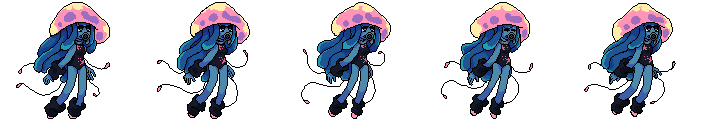
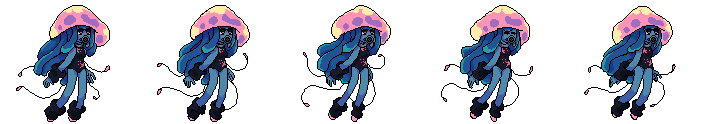
Sprite Changes and Interacting animations

diff --git a/Components/Indigo.cpp b/Components/Indigo.cpp
@@ -2,10 +2,11 @@
 #include "../Sprite.h"
 #include "../InputManager.h"
 
-Indigo::Indigo(GameObject& associated): Component(associated){
+Indigo::Indigo(GameObject& associated): Component(associated), interactingTimer(){
     player = this;
     associated.AddComponent(dynamic_cast<Component*>(new Sprite(associated, "Assets/Images/IndigoStandingSheet.png", 8, 1.5/8.0)));
     lastSpeed = 0;
+    interacting = false;
 
 }
 
@@ -18,33 +19,53 @@ void Indigo::Start(){
 }
 
 void Indigo::Update(float dt){
-    int directionalSpeed = 250 * dt * (InputManager::GetInstance().IsKeyDown(D_KEY) - InputManager::GetInstance().IsKeyDown(A_KEY));
-    associated.box.x += directionalSpeed;
-    if(directionalSpeed != 0){
-        if(lastSpeed == 0){
+    if(interacting == false){
+
+        int directionalSpeed = 250 * dt * (InputManager::GetInstance().IsKeyDown(D_KEY) - InputManager::GetInstance().IsKeyDown(A_KEY));
+        associated.box.x += directionalSpeed;
+        if(directionalSpeed != 0){
+            if(lastSpeed == 0){
+                Sprite* sprite = (Sprite*)associated.GetComponent("Sprite");
+                sprite->SetFrameCount(5);
+                sprite->Open("Assets/Images/IndigoRunningSheet.png");
+            }
+
+            if(directionalSpeed < 0){
+                if(!(associated.flip)){
+                    associated.flip = !associated.flip;
+                }
+            }else if(directionalSpeed > 0){
+                if(associated.flip){
+                    associated.flip = !associated.flip;
+                }
+            }
+        }
+        else{
+            if(lastSpeed != 0){
+                Sprite* sprite = (Sprite*)associated.GetComponent("Sprite");
+                sprite->SetFrameCount(8);
+                sprite->Open("Assets/Images/IndigoStandingSheet.png");
+            }
+        }
+        lastSpeed = directionalSpeed;
+
+        if(InputManager::GetInstance().KeyPress(SPACE_BAR)){
             Sprite* sprite = (Sprite*)associated.GetComponent("Sprite");
             sprite->SetFrameCount(5);
-            sprite->Open("Assets/Images/IndigoRunningSheet.png");
-        }
-
-        if(directionalSpeed < 0){
-            if(!(associated.flip)){
-                associated.flip = !associated.flip;
-            }
-        }else if(directionalSpeed > 0){
-            if(associated.flip){
-                associated.flip = !associated.flip;
-            }
+            sprite->Open("Assets/Images/IndigoInteractingSheet.png");
+            interacting = true;
+            interactingTimer.Restart();
         }
     }
     else{
-        if(lastSpeed != 0){
+        interactingTimer.Update(dt);
+        if(interactingTimer.Get() >= 5 * (1.5/8.0)){
+            interacting = false;
             Sprite* sprite = (Sprite*)associated.GetComponent("Sprite");
             sprite->SetFrameCount(8);
             sprite->Open("Assets/Images/IndigoStandingSheet.png");
         }
     }
-    lastSpeed = directionalSpeed;
 }
 
 void Indigo::Render(){

diff --git a/Components/Indigo.h b/Components/Indigo.h
@@ -2,6 +2,7 @@
 #define INDIGO_H
 
 #include "../Component.h"
+#include "../Timer.h"
 
 class Indigo: public Component{
 public:
@@ -18,6 +19,8 @@ public:
     inline static Indigo* player = nullptr;
 private:
     int lastSpeed;
+    bool interacting;
+    Timer interactingTimer;
 };
 
 #endif // INDIGO_H
